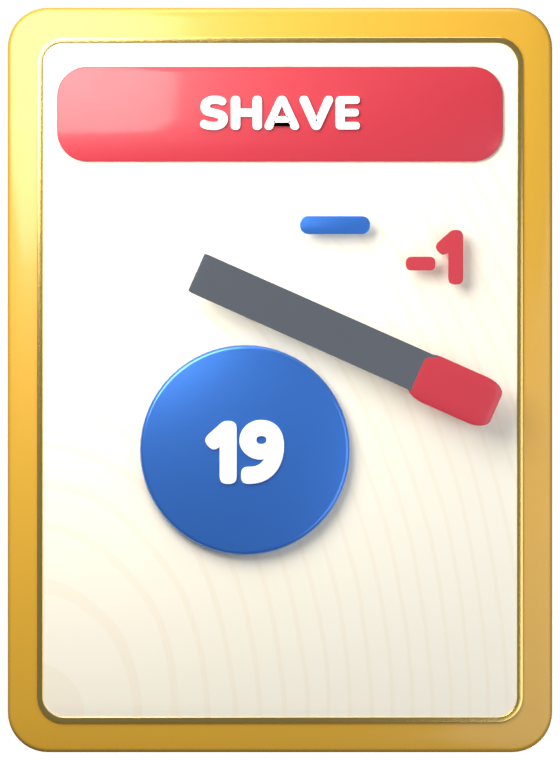
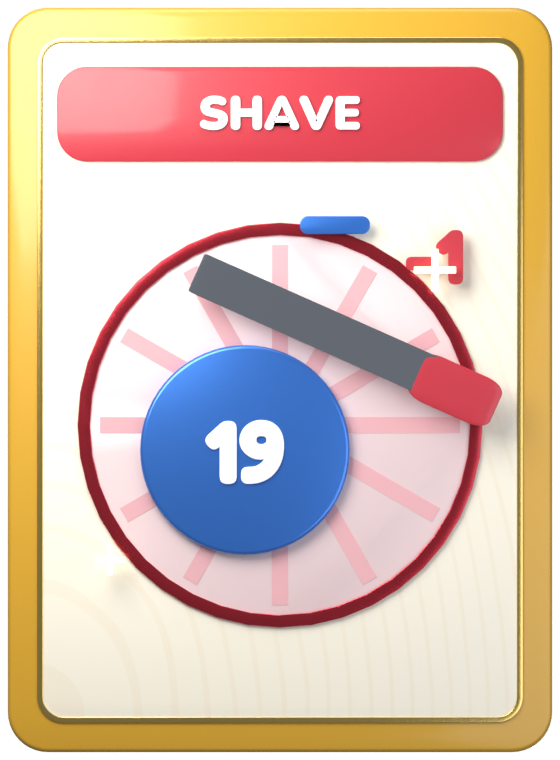
More art changes

Changed region(s): [[0.1214, 0.2724, 0.8804, 0.8474]]

diff --git a/tools/cardgen/cardgen.py b/tools/cardgen/cardgen.py
@@ -541,8 +541,52 @@ def token(cx, cy, r, color, label, ink="#ffffff", z=THICK + 0.02):
     return ob
 
 
+def lighten(hexcol, t):
+    h = hexcol.lstrip("#")
+    c = [int(h[i:i + 2], 16) for i in (0, 2, 4)]
+    c = [round(x + (255 - x) * t) for x in c]
+    return "#%02x%02x%02x" % tuple(c)
+
+
+def sparkle(cx, cy, size, material, z):
+    """A four-point glint: two thin bevelled bars crossed at right angles."""
+    for rot in (0.0, math.pi / 2):
+        bpy.ops.mesh.primitive_cube_add(size=1, location=(cx, cy, z))
+        d = bpy.context.active_object
+        d.scale = (size, size * 0.16, 0.02)
+        d.rotation_euler.z = rot
+        bv = d.modifiers.new("Bevel", "BEVEL"); bv.width = size * 0.07; bv.segments = 3
+        bpy.ops.object.shade_smooth()
+        d.data.materials.append(material)
+
+
+def medallion(color, cy=-0.45):
+    """The stage every emblem stands on: a pale sunburst disc in the card's colour, a metal ring
+    round it, and a couple of glints - so the emblem reads as a crest, not shapes on paper."""
+    z = THICK + 0.01
+    disc = face_mat("Disc", srgb(lighten(color, 0.82)))
+    slab("Disc", 3.9, 3.9, 1.95, z, 0.01, disc, bevel=0.004).location.y = cy
+    rays = mat("Rays", srgb(lighten(color, 0.62)), rough=0.5)
+    for i in range(12):
+        a = i * math.pi / 6
+        bpy.ops.mesh.primitive_cube_add(size=1, location=(math.cos(a) * 1.15, cy + math.sin(a) * 1.15, z + 0.012))
+        r = bpy.context.active_object
+        r.scale = (1.3, 0.16, 0.004)
+        r.rotation_euler.z = a
+        r.data.materials.append(rays)
+    ring = mat("Ring", srgb(color), rough=0.25, metal=0.85, coat=0.4)
+    slab("Ring", 4.05, 4.05, 2.02, z + 0.005, 0.03, ring, bevel=0.01, hole=(3.8, 3.8, 1.9)).location.y = cy
+    glint = mat("Glint", srgb("#fffaf0"), rough=0.3)
+    gp = glint.node_tree.nodes["Principled BSDF"]
+    gp.inputs["Emission Color"].default_value = srgb("#fff3c4")
+    gp.inputs["Emission Strength"].default_value = 1.6
+    sparkle(1.55, cy + 1.55, 0.42, glint, z + 0.25)
+    sparkle(-1.7, cy - 1.35, 0.3, glint, z + 0.25)
+
+
 def effect_card(title, color):
     L = base_card("effect")
+    medallion(color)
     ink = ink_mat(color, "TitleInk")
     # Title banner across the top of the face.
     banner = mat("Banner", srgb(color), rough=0.35, coat=0.5)
@@ -634,7 +678,7 @@ MATS = {
     #           surface       inlay       kind      (noise scale, bump, roughness)
     "bronze":   ("#1f4a36", "#b0703a", "felt"),
     "silver":   ("#27404d", "#a9b6c2", "slate"),
-    "gold":     ("#4a3a14", "#d9a62e", "lacquer"),
+    "gold":     ("#6a3f0c", "#e6b54a", "lacquer"),
     "ruby":     ("#4a1420", "#d9a62e", "velvet"),
     "obsidian": ("#17121f", "#8e6ad8", "glass"),
     "endless":  ("#120f2e", "#e8e8f0", "void"),
@@ -661,6 +705,19 @@ def surface_mat(color, kind):
     noise.inputs["Detail"].default_value = 6.0
     bump.inputs["Strength"].default_value = settings[1]
     p.inputs["Roughness"].default_value = settings[2]
+    if kind == "lacquer":
+        # Lacquered wood: long soft grain bands, darker streaks in the amber.
+        grain = nt.nodes.new("ShaderNodeTexWave")
+        grain.wave_type = "BANDS"
+        grain.bands_direction = "Y"
+        grain.inputs["Scale"].default_value = 7.0
+        grain.inputs["Distortion"].default_value = 2.5
+        grain.inputs["Detail"].default_value = 4.0
+        ramp = nt.nodes.new("ShaderNodeValToRGB")
+        ramp.color_ramp.elements[0].color = srgb("#58330a")
+        ramp.color_ramp.elements[1].color = srgb(color)
+        nt.links.new(grain.outputs["Fac"], ramp.inputs["Fac"])
+        nt.links.new(ramp.outputs["Color"], p.inputs["Base Color"])
     if kind == "void":
         # A night sky of slow colour: indigo drifting to violet and teal, with faint star specks.
         ramp = nt.nodes.new("ShaderNodeValToRGB")

diff --git a/Menus.cs b/Menus.cs
@@ -207,6 +207,21 @@ public sealed class Menus
     private const float MenuBannerAngle = -9f;   // degrees; the Pocket "Battle" / "VS." slant
     private const float MenuLogoSize = 170f;
 
+    private TextureRect _menuMat;
+
+    /// The menu sits on YOUR board (pass 61): the one chosen in the Shop, so buying a board shows
+    /// straight away on the front door. Falls back to the original mat if a render is missing.
+    private void RefreshMenuMat()
+    {
+        if (_menuMat == null || _startMenuOverlay == null) return;
+        Vector2 size = _startMenuOverlay.Size;
+        bool portrait = size.Y > size.X;
+        string board = RunData.Instance?.SelectedBoard ?? "bronze";
+        string path = $"res://assets/aimfor20_art/playmats/playmat_{board}_{(portrait ? "portrait" : "landscape")}.png";
+        Texture2D chosen = ResourceLoader.Exists(path) ? GD.Load<Texture2D>(path) : null;
+        _menuMat.Texture = chosen ?? (portrait ? MenuMatPortrait : MenuMatLandscape);
+    }
+
     public void BuildStartMenu()
     {
         _startMenuOverlay = new Control { Visible = false, MouseFilter = Control.MouseFilterEnum.Stop };
@@ -238,11 +253,12 @@ public sealed class Menus
         _startMenuOverlay.AddChild(bandWide);
         _startMenuOverlay.AddChild(band);
 
+        _menuMat = mat;
         void Relayout()
         {
             Vector2 size = _startMenuOverlay.Size;
             if (size.X <= 0 || size.Y <= 0) return;
-            mat.Texture = size.Y > size.X ? MenuMatPortrait : MenuMatLandscape;
+            RefreshMenuMat();
 
             // Longer than the diagonal, so the ends never show whatever the aspect.
             float length = size.Length() * 1.2f;
@@ -286,6 +302,7 @@ public sealed class Menus
     /// a climb to continue, which rung it is on, and what the player has banked.
     private void FillStartMenu()
     {
+        RefreshMenuMat(); // a board bought or chosen in the Shop shows on the way back
         OverlayUi.ClearChildren(_startMenuBox);
         _newRunArmed = false;
 
